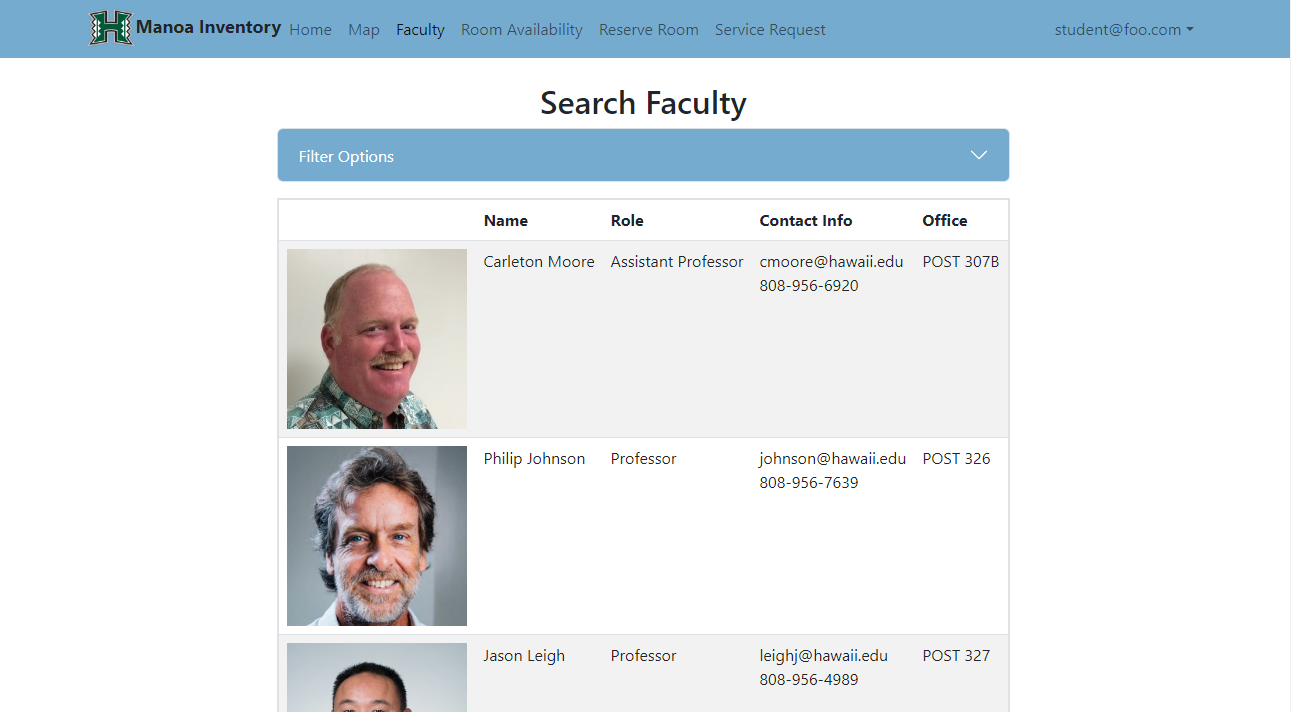
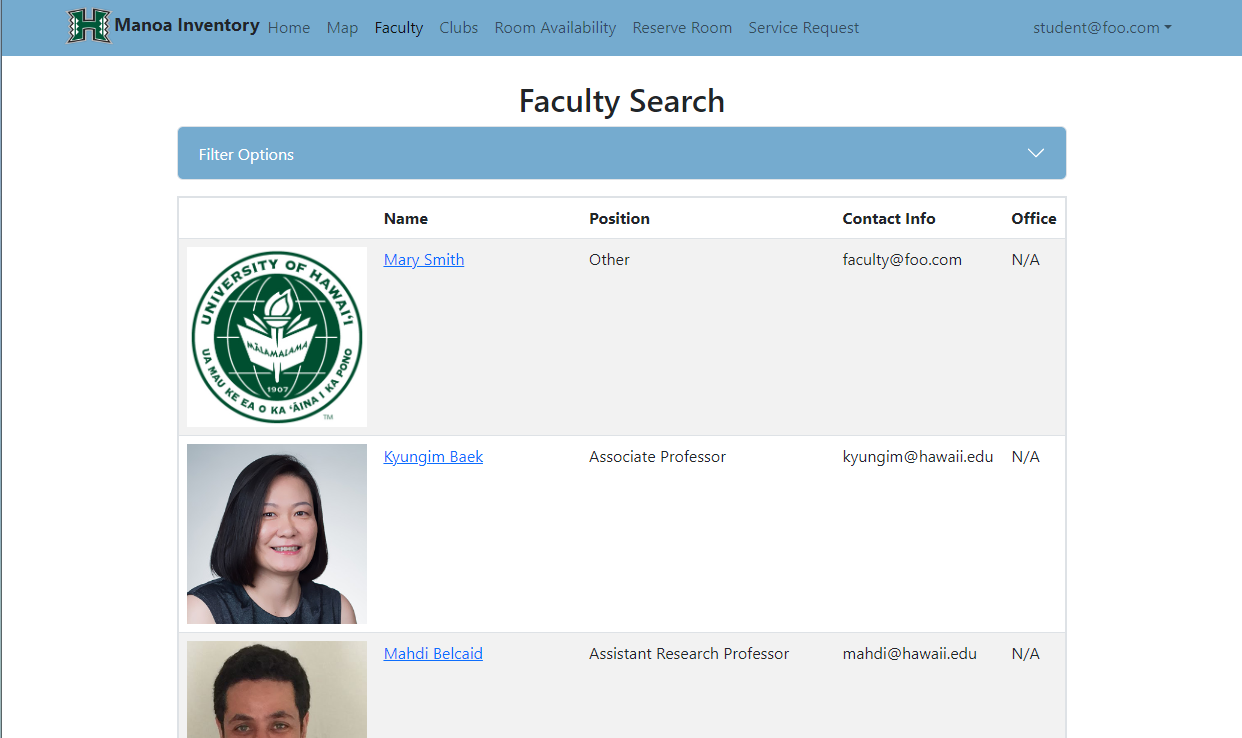
Updated faculty search and added full faculty info

diff --git a/index.md b/index.md
@@ -78,6 +78,10 @@ User story #5: As an undergraduate student I want to be able to look up my profe
 
 <img src="doc/faculty-search-page-2.png">
 
+### Full Faculty Info Page
+
+<img src="doc/full-faculty-info-page.png">
+
 ## Faculty User Story
 
 User story #13: As a Faculty member, I want to reserve a room.
